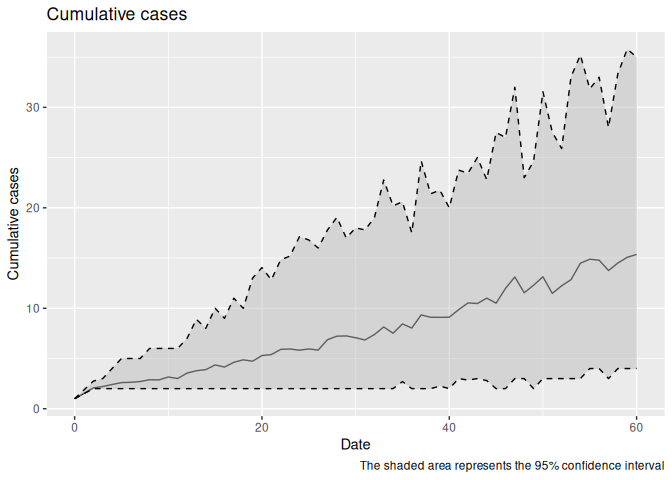
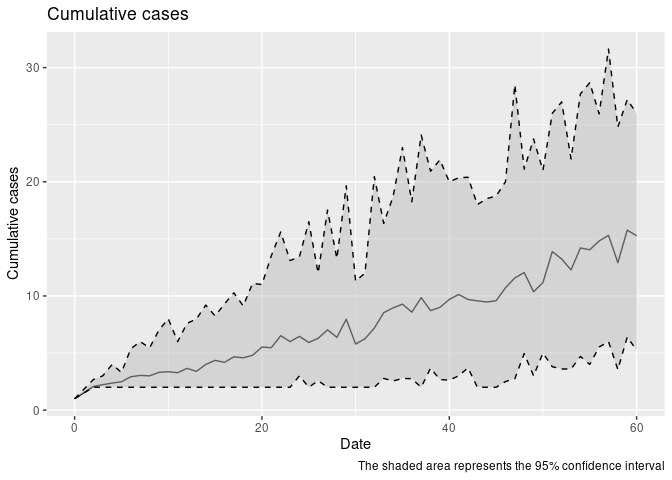
Working on rates

diff --git a/school_quarantine/school_quarantine.hpp b/school_quarantine/school_quarantine.hpp
@@ -353,7 +353,7 @@ EPI_NEW_UPDATEFUN(update_rash, int) {
 
     // Probability of Staying in the rash period vs becoming
     // hospitalized
-    m->array_double_tmp[0] = m->par("1/Rash period");
+    m->array_double_tmp[0] = 1.0/m->par("Rash days");
     m->array_double_tmp[1] = m->par("Hospitalization rate");
 
     int which = epiworld::roulette(2, m);
@@ -478,7 +478,7 @@ EPI_NEW_UPDATEFUN(update_isolated, int) {
 
     // Probability of staying in the rash period vs becoming
     // hospitalized
-    m->array_double_tmp[0] = m->par("1/Rash period");
+    m->array_double_tmp[0] = 1.0/m->par("Rash days");
     m->array_double_tmp[1] = m->par("Hospitalization rate");
 
     int which = epiworld::roulette(2, m);
@@ -540,7 +540,7 @@ inline ModelSchoolQuarantine::ModelSchoolQuarantine(
     model.add_param(transmission_rate, "Transmission rate");
     model.add_param(incubation_period, "Incubation period");
     model.add_param(prodromal_period, "Prodromal period");
-    model.add_param(1.0 / rash_period, "1/Rash period");
+    model.add_param(rash_period, "Rash days");
     model.add_param(days_undetected, "Days undetected");
     model.add_param(quarantine_days, "Quarantine days");
     model.add_param(
@@ -556,7 +556,7 @@ inline ModelSchoolQuarantine::ModelSchoolQuarantine(
     Virus<> measles("Measles");
     measles.set_state(EXPOSED, RECOVERED);
     measles.set_prob_infecting(&model("Transmission rate"));
-    measles.set_prob_recovery(&model("1/Rash period"));
+    measles.set_prob_recovery(&model("Rash days"));
     measles.set_incubation(&model("Incubation period"));
     measles.set_distribution(
         distribute_virus_randomly(n_exposed, false)

diff --git a/school_quarantine/new_bridge_88.md b/school_quarantine/new_bridge_88.md
@@ -1,6 +1,5 @@
 # School quarantine model
 
-
 ## School quarantine model for new_bridge_88
 
 This model is a discrete-time Agent-Based Model \[ABM\] that includes
@@ -35,18 +34,18 @@ the following features:
 
 The following is a raw list of the parameters included in the model:
 
-| Parameter | Value | Reference |
-|:---|---:|:---|
-| Contact rate | 2.38 | Negative binomial. Calibrated using R0=15 as a reference. |
-| Incubation period | 12.00 | Geometric + 1. Ref.: Jones and Baranowski (2019) |
-| Days undetected | 2000.00 | Fixed value. |
-| Prodromal period | 3.00 | Geometric + 1. Ref.: Jones and Baranowski (2019) |
-| Quarantine days | 21.00 | Utah Measles Disease Plan (“Measles Disease Plan” 2019). |
-| Rash period | 4.00 | Geometric + 1. Ref.: “Measles Disease Plan” (2019). |
-| Transmission rate | 0.90 | Prob. of transmission fixed. Calibrated using R0=15 as a reference. |
-| Vax improved recovery | 0.50 | Fixed value. |
-| Vax efficacy | 0.99 | Prob. efficacy fixed. Ref.: Liu et al. (2015). |
-| R0 | 15.00 | Theoretical R0. |
+| Parameter             | Value | Reference                                                           |
+|:----------------------|------:|:--------------------------------------------------------------------|
+| Contact rate          |  2.38 | Negative binomial. Calibrated using R0=15 as a reference.           |
+| Incubation period     | 12.00 | Geometric + 1. Ref.: Jones and Baranowski (2019)                    |
+| Days undetected       | -1.00 | Fixed value.                                                        |
+| Prodromal period      |  3.00 | Geometric + 1. Ref.: Jones and Baranowski (2019)                    |
+| Quarantine days       | 21.00 | Utah Measles Disease Plan (“Measles Disease Plan” 2019).            |
+| Rash period           |  4.00 | Geometric + 1. Ref.: “Measles Disease Plan” (2019).                 |
+| Transmission rate     |  0.90 | Prob. of transmission fixed. Calibrated using R0=15 as a reference. |
+| Vax improved recovery |  0.50 | Fixed value.                                                        |
+| Vax efficacy          |  0.99 | Prob. efficacy fixed. Ref.: Liu et al. (2015).                      |
+| R0                    | 15.00 | Theoretical R0.                                                     |
 
 Other parameters can be found the corresponding parameters document
 [here](new_bridge_88_params.yaml).
@@ -57,8 +56,8 @@ This model simulates the spread of measles in a highschool. The
 highschool has students, and the simulation runs for days with one index
 case. The following is the output from the highschool model:
 
-    Using file: /tmp/RtmpzQkCfq/file7ba7e7647a3.yaml
-    Starting multiple runs (2000) using 10 thread(s)
+    Using file: /scratch/local/u6039184/3635580/RtmposMDSz/file1ebbb919c8fc6.yaml
+    Starting multiple runs (500) using 10 thread(s)
     _________________________________________________________________________
     _________________________________________________________________________
     ||||||||||||||||||||||||||||||||||||||||||||||||||||||||||||||||||||||||| done.
@@ -72,10 +71,10 @@ case. The following is the output from the highschool model:
     Number of entities  : 0
     Days (duration)     : 60 (of 60)
     Number of viruses   : 1
-    Last run elapsed t  : 0.00s
-    Total elapsed t     : 1.00s (2000 runs)
-    Last run speed      : 8.04 million agents x day / second
-    Average run speed   : 73.55 million agents x day / second
+    Last run elapsed t  : 7.00ms
+    Total elapsed t     : 353.00ms (500 runs)
+    Last run speed      : 5.09 million agents x day / second
+    Average run speed   : 52.14 million agents x day / second
     Rewiring            : off
 
     Global events:
@@ -88,15 +87,15 @@ case. The following is the output from the highschool model:
      - Vaccine
 
     Model parameters:
-     - 1/Rash period          : 0.2500
      - Contact rate           : 2.3810
-     - Hospitalization days   : 2000.0000
+     - Days undetected        : 0.2000
+     - Hospitalization days   : -1.0000
      - Hospitalization rate   : 7.0000
      - Incubation period      : 12.0000
-     - Days undetected       : 0.2000
      - Prodromal period       : 3.0000
      - Quarantine days        : 21.0000
      - Quarantine willingness : -1.0000
+     - Rash days              : 4.0000
      - Transmission rate      : 0.9000
      - Vaccination rate       : 0.8800
      - Vax efficacy           : 0.9900
@@ -111,20 +110,22 @@ case. The following is the output from the highschool model:
       - ( 5) Quarantined Exposed     :   0 -> 0
       - ( 6) Quarantined Susceptible :   0 -> 0
       - ( 7) Quarantined Infectious  :   0 -> 0
-      - ( 8) Hospitalized            :   0 -> 1
-      - ( 9) Recovered               :   0 -> 0
+      - ( 8) Quarantined Recovered   :   0 -> 0
+      - ( 9) Hospitalized            :   0 -> 1
+      - (10) Recovered               :   0 -> 0
 
     Transition Probabilities:
-     - Susceptible              1.00  0.00  0.00  0.00  0.00  0.00  0.00  0.00  0.00  0.00
-     - Exposed                  0.00  0.50  0.50  0.00  0.00  0.00  0.00  0.00  0.00  0.00
-     - Prodromal                0.00  0.00  0.00  1.00  0.00  0.00  0.00  0.00  0.00  0.00
-     - Rash                     0.00  0.00  0.00  0.00  0.00  0.00  0.00  0.00  1.00  0.00
-     - Isolated                    -     -     -     -     -     -     -     -     -     -
-     - Quarantined Exposed         -     -     -     -     -     -     -     -     -     -
-     - Quarantined Susceptible     -     -     -     -     -     -     -     -     -     -
-     - Quarantined Infectious      -     -     -     -     -     -     -     -     -     -
-     - Hospitalized             0.00  0.00  0.00  0.00  0.00  0.00  0.00  0.00  1.00  0.00
-     - Recovered                   -     -     -     -     -     -     -     -     -     -
+     - Susceptible              1.00  0.00  0.00  0.00  0.00  0.00  0.00  0.00  0.00  0.00  0.00
+     - Exposed                  0.00  0.86  0.14  0.00  0.00  0.00  0.00  0.00  0.00  0.00  0.00
+     - Prodromal                0.00  0.00  0.67  0.33  0.00  0.00  0.00  0.00  0.00  0.00  0.00
+     - Rash                     0.00  0.00  0.00  0.00  0.00  0.00  0.00  0.00  0.00  1.00  0.00
+     - Isolated                    -     -     -     -     -     -     -     -     -     -     -
+     - Quarantined Exposed         -     -     -     -     -     -     -     -     -     -     -
+     - Quarantined Susceptible     -     -     -     -     -     -     -     -     -     -     -
+     - Quarantined Infectious      -     -     -     -     -     -     -     -     -     -     -
+     - Quarantined Recovered       -     -     -     -     -     -     -     -     -     -     -
+     - Hospitalized             0.00  0.00  0.00  0.00  0.00  0.00  0.00  0.00  0.00  1.00  0.00
+     - Recovered                   -     -     -     -     -     -     -     -     -     -     -
 
 ## Flowchart
 
@@ -135,18 +136,13 @@ model:
 flowchart LR
     s0[Exposed]
     s1[Hospitalized]
-    s2[Isolated]
-    s3[Prodromal]
-    s4[Rash]
-    s5[Recovered]
-    s6[Susceptible]
-    s0 -->|0.084331| s3
-    s1 -->|0.000471| s5
-    s2 -->|1.000000| s1
-    s3 -->|0.033502| s2
-    s3 -->|0.299775| s4
-    s4 -->|1.000000| s1
-    s6 -->|0.000131| s0
+    s2[Prodromal]
+    s3[Rash]
+    s4[Susceptible]
+    s0 -->|0.082465| s2
+    s2 -->|0.336223| s3
+    s3 -->|1.000000| s1
+    s4 -->|0.000129| s0
 
 ```
 
@@ -154,16 +150,16 @@ flowchart LR
 
 Estimating the outbreak size:
 
-|    Size | Probability    | Likely size (if \> Size)   |
-|--------:|:---------------|:---------------------------|
-|  2.0000 | 0.23           | \[2.00, 11.00\]            |
-|  5.0000 | 0.08           | \[5.00, 13.00\]            |
-| 10.0000 | \< 0.01        | \[10.00, 15.00\]           |
-| 20.0000 | \< 0.01        | \-                         |
-|  0.0000 | Median (50%\>) | \[ 1 , 9.22500000000002 \] |
-|  1.0885 | Mean (average) | \[ 2 , 11 \]               |
+|   Size | Probability    | Likely size (if \> Size) |
+|-------:|:---------------|:-------------------------|
+|  2.000 | 0.20           | \[2.00, 9.52\]           |
+|  5.000 | 0.08           | \[5.00, 10.00\]          |
+| 10.000 | \< 0.01        | \[10.00, 12.85\]         |
+| 20.000 | \< 0.01        | \-                       |
+|  0.000 | Median (50%\>) | \[ 1 , 9 \]              |
+|  0.998 | Mean (average) | \[ 1 , 9 \]              |
 
-Likely sizes of the outbreak based on 2000 simulations.
+Likely sizes of the outbreak based on 500 simulations.
 
 ![](new_bridge_88_files/figure-commonmark/print-histogram-1.png)
 
@@ -182,7 +178,7 @@ transitions:
 
 ![](new_bridge_88_files/figure-commonmark/reproductive-number-1.png)
 
-    Mean R0:1.1015
+    Mean R0:1.014
 
     Median R0:1
 
@@ -190,8 +186,7 @@ transitions:
 
 # References
 
-<div id="refs" class="references csl-bib-body hanging-indent"
-entry-spacing="0">
+<div id="refs" class="references csl-bib-body hanging-indent">
 
 <div id="ref-jones2019measles" class="csl-entry">
 
